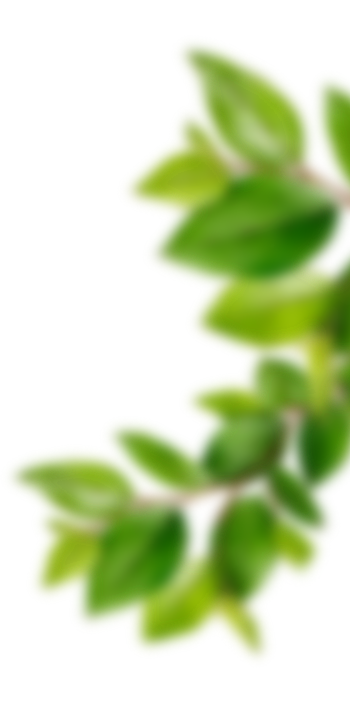
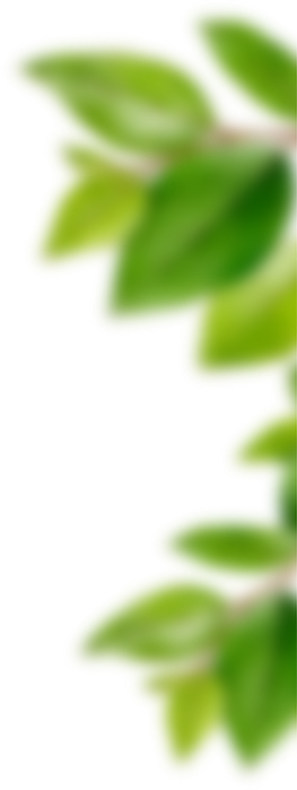
Edit parallax size and add carousel on top text

diff --git a/pages/index.js b/pages/index.js
@@ -56,7 +56,7 @@ function useVisibiliyRef(options) {
 
 export default function Home() {
   // get windows dimension
-  const {width, height, sm, md} = getWindowDimensions();
+  const {width, height, sm, md, lg, xl} = getWindowDimensions();
 
   // get visibility of top header
   const [refTopHeader, visTopHeader] = useVisibiliyRef({treshold: 1.0});
@@ -109,6 +109,36 @@ export default function Home() {
       src: crsl4,
       altText: 'kemitraan-progresif',
       caption: 'Kemitraan yang Progresif',
+    },
+  ]);
+  const [carouselTextTop, setCarouselTextTop] = React.useState([
+    {
+      title:
+        'Well Established Property Company Specialized in Low Cost Housing',
+      subtitle:
+        'Arrayan Group is a market leader in providing Subsidy & Low cost housing located in Bekasi, Karawang & Purwakarta Region.',
+      btnText: 'Dapatkan Penawaran Menarik Sekarang',
+    },
+    {
+      title:
+        'Well Established Property Company Specialized in Low Cost Housing',
+      subtitle:
+        'Arrayan Group is a market leader in providing Subsidy & Low cost housing located in Bekasi, Karawang & Purwakarta Region.',
+      btnText: 'Dapatkan Penawaran Menarik Sekarang',
+    },
+    {
+      title:
+        'Well Established Property Company Specialized in Low Cost Housing',
+      subtitle:
+        'Arrayan Group is a market leader in providing Subsidy & Low cost housing located in Bekasi, Karawang & Purwakarta Region.',
+      btnText: 'Dapatkan Penawaran Menarik Sekarang',
+    },
+    {
+      title:
+        'Well Established Property Company Specialized in Low Cost Housing',
+      subtitle:
+        'Arrayan Group is a market leader in providing Subsidy & Low cost housing located in Bekasi, Karawang & Purwakarta Region.',
+      btnText: 'Dapatkan Penawaran Menarik Sekarang',
     },
   ]);
   const [projectList, setProjectList] = React.useState([
@@ -218,6 +248,7 @@ export default function Home() {
 
   // useRef initialization
   const refCar = React.useRef(null);
+  const refCarText = React.useRef(null);
   const refTesti = React.useRef(null);
   const refTestiWrapper = React.useRef(null);
   const refTestiIndv = React.useRef(null);
@@ -264,7 +295,7 @@ export default function Home() {
   ];
 
   const parallaxRight = [
-    {src: rightTop, position: '-1%', speed: 0.7},
+    {src: rightTop, position: '-1%', speed: 0.3},
     {src: rightMid, position: '20%', speed: 0.7},
     {src: rightEnd, position: '45%', speed: 0.52},
   ];
@@ -406,6 +437,7 @@ export default function Home() {
                   transform: refHomeCont.current
                     ? `translateY(${speed * offsetY}px)`
                     : '',
+                  width: idx === 0 ? '200%' : '100%',
                   top: position,
                 }}
                 className="right-wrapper"
@@ -535,20 +567,50 @@ export default function Home() {
             {/* text container */}
             <div className="header-text col-12 order-3 order-md-1 panel col-md-13 col-lg-10 bg-ar-dark">
               <div className="container pt-0 pt-md-5 pt-lg-0 mt-0 mt-md-5 mt-lg-0">
-                <section className="col-12 col-md-12 col-lg-6">
-                  <h1 className="title text-uppercase">
-                    Well Established Property Company Specialized in <br /> Low
-                    Cost Housing
-                  </h1>
-                  <p className="subtitle">
-                    Arrayan Group is a market leader in providing Subsidy & Low
-                    cost housing located in Bekasi, Karawang & Purwakarta
-                    Region.
-                  </p>
-                  <button type="button" className="btn btn-block">
-                    Dapatkan Penawaran Menarik Sekarang
-                  </button>
-                  <div className="container" />
+                <section className="col-12 col-md-12 col-lg-6 overflow-hidden">
+                  <div
+                    ref={refCarText}
+                    style={{
+                      height: sm
+                        ? '300px'
+                        : md
+                        ? '300px'
+                        : lg
+                        ? '350px'
+                        : xl
+                        ? '350px'
+                        : '350px',
+                      width: '100%',
+                      transform: refCarText.current
+                        ? `translate(-${
+                            refCarText.current.offsetWidth * topCarousel
+                          }px, 0px)`
+                        : '',
+                      transition: '0.3s ease',
+                    }}
+                    className="text-carousel-cont w-100 position-relative"
+                  >
+                    {carouselTextTop.map((val, idx) => {
+                      const widthCar = refCarText.current
+                        ? refCarText.current.offsetWidth
+                        : 0;
+                      return (
+                        <div
+                          style={{
+                            left: `${idx * widthCar}px`,
+                          }}
+                          className="text-carousel w-100 h-100 px-4 pb-2 position-absolute"
+                        >
+                          <h1 className="title text-uppercase">{val.title}</h1>
+                          <p className="subtitle">{val.subtitle}</p>
+                          <button type="button" className="btn btn-block">
+                            {val.btnText}
+                          </button>
+                        </div>
+                      );
+                    })}
+                    <div className="container" />
+                  </div>
                 </section>
               </div>
             </div>
@@ -621,7 +683,7 @@ export default function Home() {
         {/* content */}
         <section className="content mt-5 mt-md-2">
           {/* highlight part */}
-          <section className="awards container text-center">
+          <section className="awards mb-3 mb-md-0 container text-center">
             <section className="row no-gutters">
               {hightlight.map((val, index) => (
                 <div key={index} className="p-2 p-md-4 col-6 col-md-3">

diff --git a/styles/global-sm.scss b/styles/global-sm.scss
@@ -1,7 +1,7 @@
 @import './globals.scss';
 
 // tablet or smaller
-@media (max-width: 768px) {
+@media (max-width: 767px) {
   .parallax-left, .parallax-right {
     display: none;
   }
@@ -181,6 +181,17 @@
     & .header-text {
     padding-top: 0 !important;
     padding-bottom: 2em !important;
+      & h1.title {
+        font-size: 1.3em !important;
+        font-weight: $font-extrabold;
+      }
+      & p.subtitle {
+        font-size: 1em !important;
+        font-weight: $font-medium;
+      }
+      & button {
+        font-size: 0.8em !important;
+      }
     }
     & .header-img {
       padding: 0 !important;
@@ -264,6 +275,14 @@
   button.menu-toggle {
     right: 20%;
   }
+  & h1.title {
+    font-size: 1.8em !important;
+    font-weight: $font-extrabold;
+  }
+  & p.subtitle {
+    font-size: 1em !important;
+    font-weight: $font-medium;
+  }
   button.btn-ar {
     border-width: 0px;
     background-color: $color-light;
@@ -274,6 +293,21 @@
     &:hover {
       transition: 300ms ease-in-out;
       transform: scale(1.05);
+    }
+  }
+
+  section.content {
+    & article.highlight {
+      color: $color;
+      & h1.title {
+        font-size: 0.95em !important;
+        font-weight: $font-bold;
+        margin: 0;
+      }
+      & text.subtitle {
+        font-size: 1.8em !important;
+        font-weight: $font-extrabold;
+      }
     }
   }
 

diff --git a/styles/global-lg.scss b/styles/global-lg.scss
@@ -1,7 +1,7 @@
 @import './globals.scss';
 
 // width lg
-@media (min-width: 992px) and (max-width: 1200px) {
+@media (min-width: 992px) and (max-width: 1199px) {
   .parallax-left, .parallax-right {
     position: absolute;
     top: 0;
@@ -49,19 +49,31 @@
       height: 100%;
       & .right-wrapper {
         position: absolute;
-        width: 100%;
         aspect-ratio: 1;
         right: 0;
         & img {
           position: absolute;
           width: 100%;
-          object-fit: contain;
           top: 0;
           right: 0;
         }
       }
     }
   }
+
+  .top-header {
+    & .header-text {
+      & h1.title {
+        font-size: 1.8em !important;
+        font-weight: $font-extrabold;
+      }
+      & p.subtitle {
+        font-size: 1em !important;
+        font-weight: $font-medium;
+      }
+    }
+  }
+
   section.projects {
     & h1.title {
       color: $color;

diff --git a/styles/global-md.scss b/styles/global-md.scss
@@ -1,7 +1,7 @@
 @import './globals.scss';
 
 // width tablet
-@media (min-width: 768px) and (max-width: 992px) {
+@media (min-width: 768px) and (max-width: 991px) {
   .parallax-left, .parallax-right {
     display: none;
   }
@@ -164,6 +164,21 @@
       left: 0;
       transform: translate(0, 0);
       margin-bottom: 1.5em;
+    }
+  }
+  
+  section.content {
+    & article.highlight {
+      color: $color;
+      & h1.title {
+        font-size: 1em !important;
+        font-weight: $font-bold;
+        margin: 0;
+      }
+      & text.subtitle {
+        font-size: 1.8em !important;
+        font-weight: $font-extrabold;
+      }
     }
   }
 
